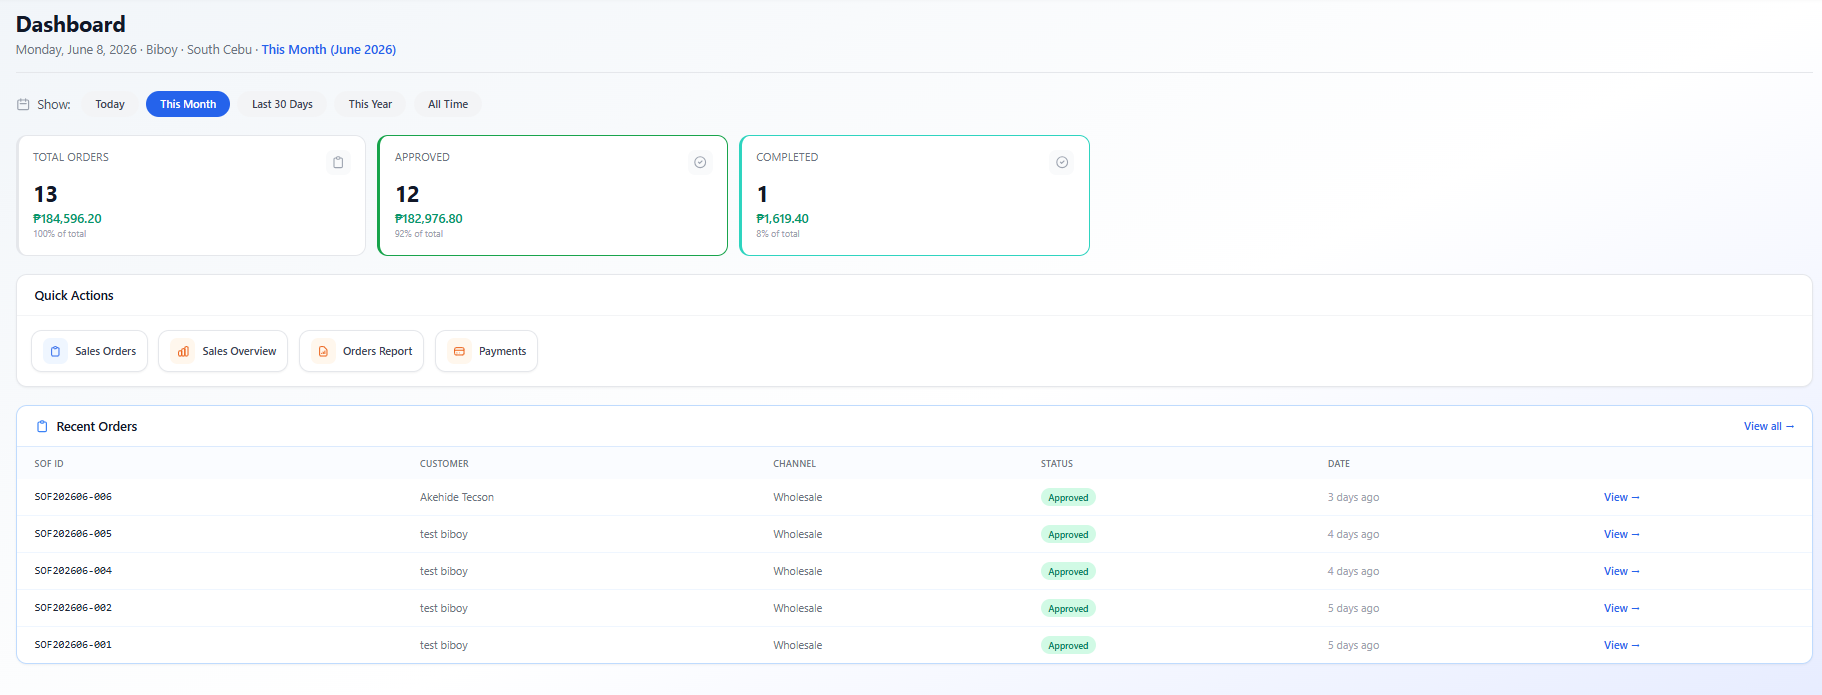
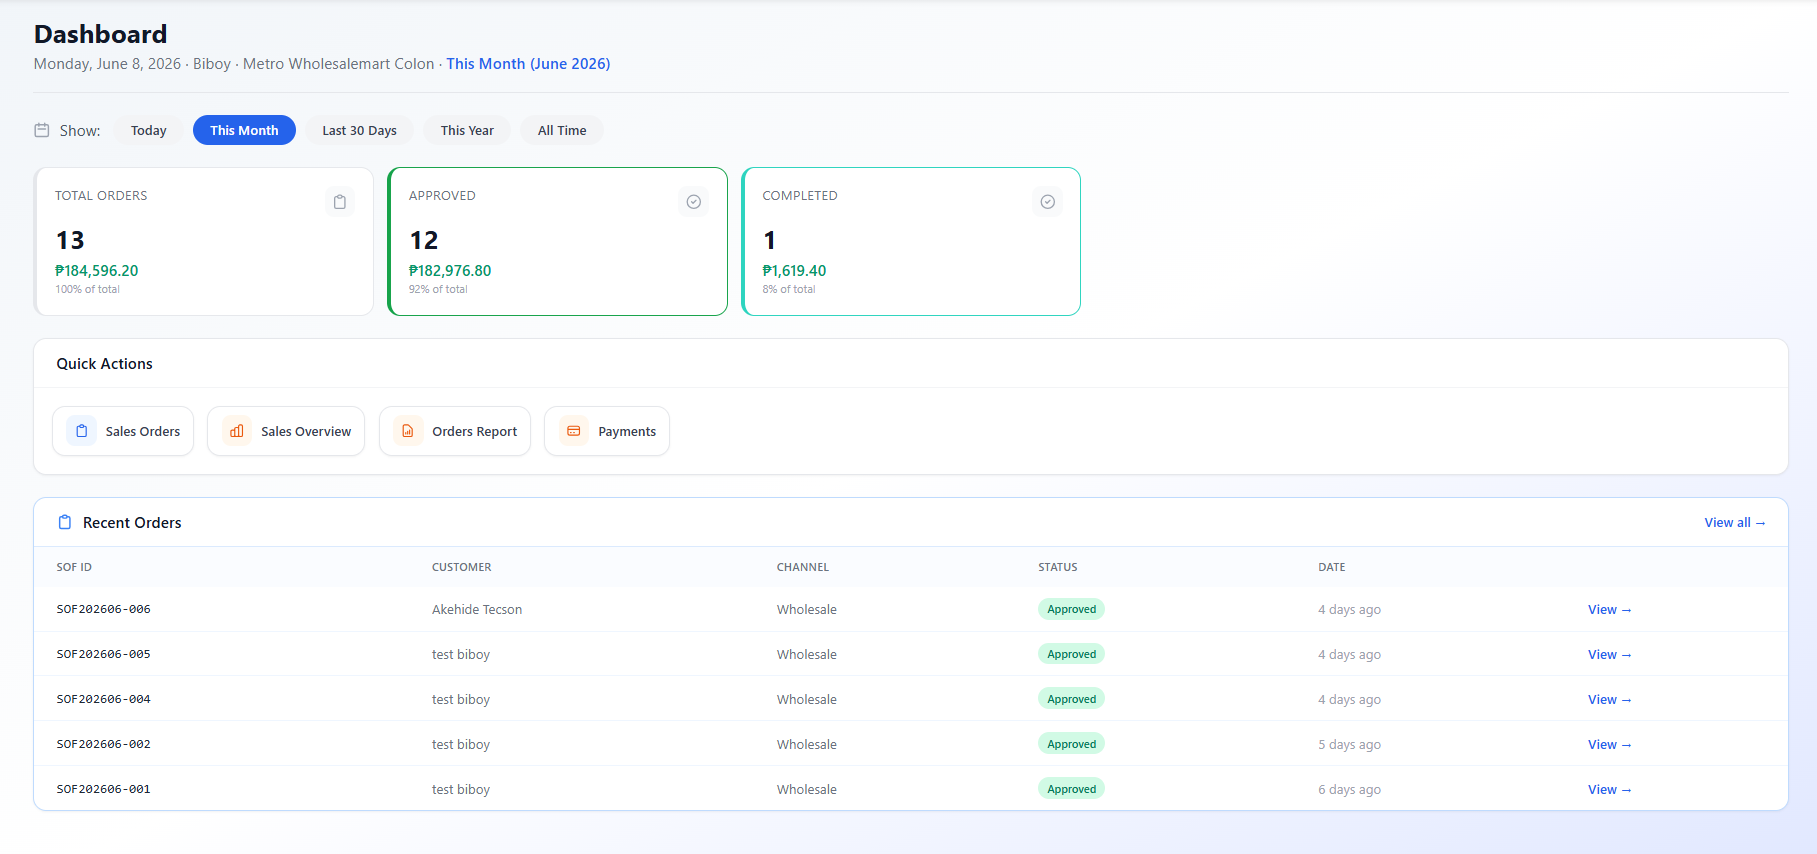
06-08-2026 Go Live 7

diff --git a/resources/views/user_guide/partials/warehouse-fulfillment.blade.php b/resources/views/user_guide/partials/warehouse-fulfillment.blade.php
@@ -10,35 +10,21 @@
     <h3 class="text-sm font-semibold text-gray-900">How an Order Moves</h3>
     <p class="mt-1 text-sm text-gray-500">Once an order is approved and sent to the warehouse, every item moves through these stages:</p>
     <div class="mt-3 flex flex-wrap items-center gap-2 text-xs font-medium">
-        @foreach ([
-            ['Processing', 'bg-gray-100 text-gray-700'],
-            ['Picking', 'bg-amber-100 text-amber-800'],
-            ['Shipped', 'bg-blue-100 text-blue-800'],
-            ['Received', 'bg-green-100 text-green-800'],
-        ] as $i => $stage)
+        @foreach ([['Processing', 'bg-gray-100 text-gray-700'], ['Picking', 'bg-amber-100 text-amber-800'], ['Shipped', 'bg-blue-100 text-blue-800'], ['Received', 'bg-green-100 text-green-800']] as $i => $stage)
             @if ($i > 0)
-                <svg class="h-4 w-4 text-gray-300" fill="none" stroke="currentColor" stroke-width="2" viewBox="0 0 24 24"><path stroke-linecap="round" stroke-linejoin="round" d="M9 5l7 7-7 7" /></svg>
+                <svg class="h-4 w-4 text-gray-300" fill="none" stroke="currentColor" stroke-width="2" viewBox="0 0 24 24">
+                    <path stroke-linecap="round" stroke-linejoin="round" d="M9 5l7 7-7 7" />
+                </svg>
             @endif
-            <span class="rounded-full {{ $stage[1] }} px-3 py-1">{{ $stage[0] }}</span>
+            <span class="{{ $stage[1] }} rounded-full px-3 py-1">{{ $stage[0] }}</span>
         @endforeach
     </div>
-    <x-guide.screenshot src="warehouse-fulfillment-flow.png" height="h-48" placeholder
-        caption="Ordered Items table showing each item's delivery stage as picking and shipping progress" />
-
-    {{-- Received reminder --}}
-    <h3 class="mt-6 text-sm font-semibold text-gray-900">"Items Received" Reminder</h3>
-    <p class="mt-1 text-sm text-gray-500">
-        On an approved order, a banner appears automatically once any item is marked <strong>Received</strong>. It's a
-        cue that goods have reached the store and the order is close to completion.
-    </p>
-    <x-guide.screenshot src="warehouse-received-banner.png" height="h-auto" placeholder
-        caption="The amber 'Items received at the store' banner on an approved order" />
 
     {{-- Capabilities --}}
     <h3 class="mt-6 text-sm font-semibold text-gray-900">What You Can &amp; Can't Do</h3>
     @php
         $yes = '<span class="inline-flex items-center gap-1 text-green-700"><span class="inline-block h-2 w-2 rounded-full bg-green-500"></span>Yes</span>';
-        $no  = '<span class="inline-flex items-center gap-1 text-gray-400"><span class="inline-block h-2 w-2 rounded-full bg-gray-300"></span>No</span>';
+        $no = '<span class="inline-flex items-center gap-1 text-gray-400"><span class="inline-block h-2 w-2 rounded-full bg-gray-300"></span>No</span>';
     @endphp
     <x-guide.table :headers="['Can you…', 'Warehouse']" :rows="[
         ['See approved &amp; completed orders for your warehouse', $yes],

diff --git a/resources/views/user_guide/partials/products.blade.php b/resources/views/user_guide/partials/products.blade.php
@@ -1,17 +1,16 @@
 {{-- ═══ 05 · PRODUCTS ═══ --}}
-<x-guide.section id="products" number="05" title="Products Page" roles="personnel admin whmanager whpersonnel">
+<x-guide.section id="products" number="05" title="Products Page" roles="personnel admin">
 
     <p class="text-sm text-gray-600">The product catalog. Search by SKU, description, or sub-department.</p>
 
     <div data-roles="personnel">
-        <x-guide.callout type="info">The depot selector is <strong>not available</strong> for store personnel, and the page is <strong>view-only</strong> — contact your admin for product changes.</x-guide.callout>
+        <x-guide.callout type="info">The depot selector is <strong>not available</strong> for store personnel, and the page is <strong>view-only</strong> — contact your admin for product
+            changes.</x-guide.callout>
     </div>
     <div data-roles="admin">
         <x-guide.callout type="tip">Full access: depot filter, <strong>Add Product</strong>, and <strong>Import CSV</strong>.</x-guide.callout>
     </div>
-    <div data-roles="whmanager whpersonnel">
-        <x-guide.callout type="info" title="Warehouse view:">The <strong>depot / warehouse filter</strong> lets you switch between the warehouses you cover. Stock figures reflect the selected warehouse.</x-guide.callout>
-    </div>
+
 
     <x-guide.screenshot src="products-table.png" caption="Product catalog with inventory levels and pricing" />
 
@@ -24,7 +23,8 @@
         <x-guide.field name="Price (SRP)">The selling price per piece.</x-guide.field>
         @if (auth()->user()->role === 'super admin')
             <x-guide.field name="WMS Actual Inventory">The stock physically sitting in the warehouse right now.</x-guide.field>
-            <x-guide.field name="WMS Virtual Inventory">The warehouse stock as the system currently sees it — including items already set aside for orders that haven't shipped yet, so it can differ from the physical count for a short while.</x-guide.field>
+            <x-guide.field name="WMS Virtual Inventory">The warehouse stock as the system currently sees it — including items already set aside for orders that haven't shipped yet, so it can
+                differ from the physical count for a short while.</x-guide.field>
         @else
             <x-guide.field name="WMS Inventory">The warehouse stock available for your store. Goes up and down as orders are placed or cancelled.</x-guide.field>
         @endif

diff --git a/resources/views/user_guide/partials/dashboard.blade.php b/resources/views/user_guide/partials/dashboard.blade.php
@@ -23,7 +23,7 @@
             caption="Super Admin Dashboard — Summary cards, revenue strip, Store Performance, Activity Feed" />
     </div>
     <div data-roles="whmanager whpersonnel">
-        <x-guide.screenshot src="dashboard-warehouse.png" height="h-auto" placeholder
+        <x-guide.screenshot src="dashboard-warehouse.png" height="h-auto"
             caption="Warehouse Dashboard — 3 Summary cards (Total / Approved / Completed) for the stores your warehouse serves" />
     </div>
 

diff --git a/resources/views/user_guide/partials/order-details.blade.php b/resources/views/user_guide/partials/order-details.blade.php
@@ -197,7 +197,7 @@
             Processing to Picking, Shipped, and Received. See <strong>Fulfilment Tracking</strong> below for the full
             flow.
         </p>
-        <x-guide.screenshot src="od-warehouse-items.png" placeholder
+        <x-guide.screenshot src="od-warehouse-items.png"
             caption="Ordered Items table with each item's delivery stage (view-only for warehouse)" />
     </div>
 

diff --git a/resources/views/user_guide/partials/orders-list.blade.php b/resources/views/user_guide/partials/orders-list.blade.php
@@ -38,7 +38,7 @@
             <x-guide.screenshot src="orders-table-manager.png" caption="Manager order table — region-scoped, three statuses" />
         </div>
         <div data-roles="whmanager whpersonnel">
-            <x-guide.screenshot src="orders-table-warehouse.png" placeholder
+            <x-guide.screenshot src="orders-table-warehouse.png"
                 caption="Warehouse order table — approved &amp; completed orders for your warehouse's stores" />
         </div>
         <p class="mt-2 text-sm text-gray-500">